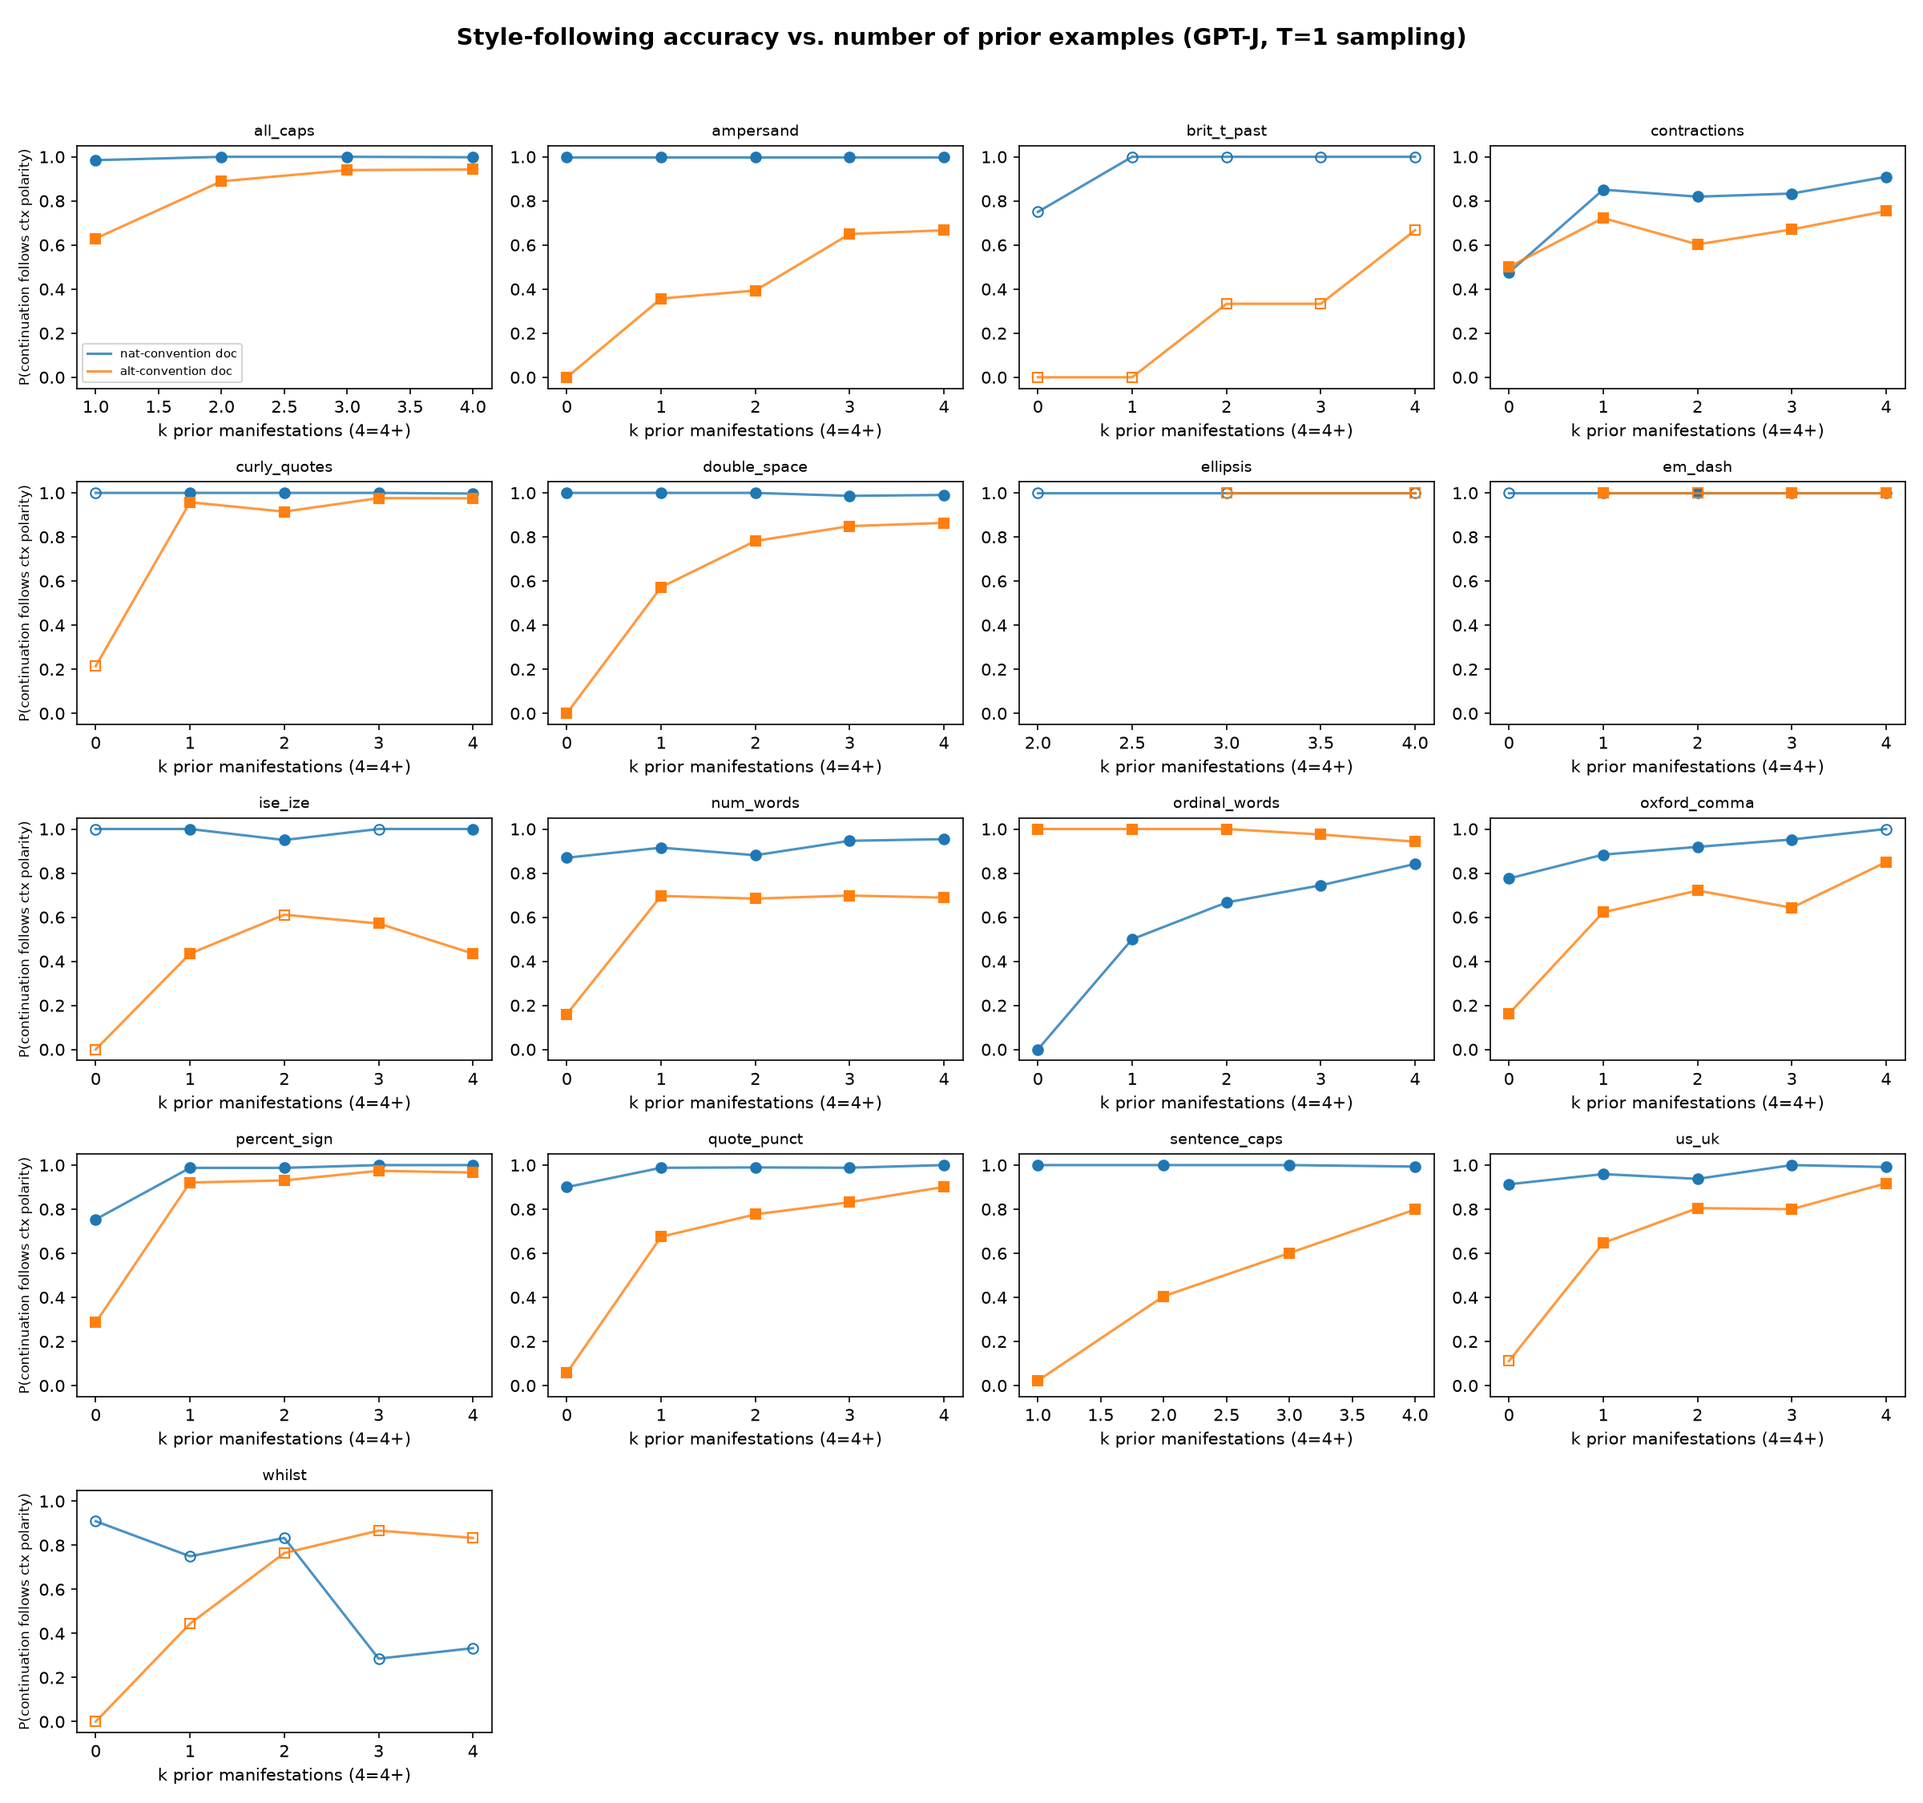
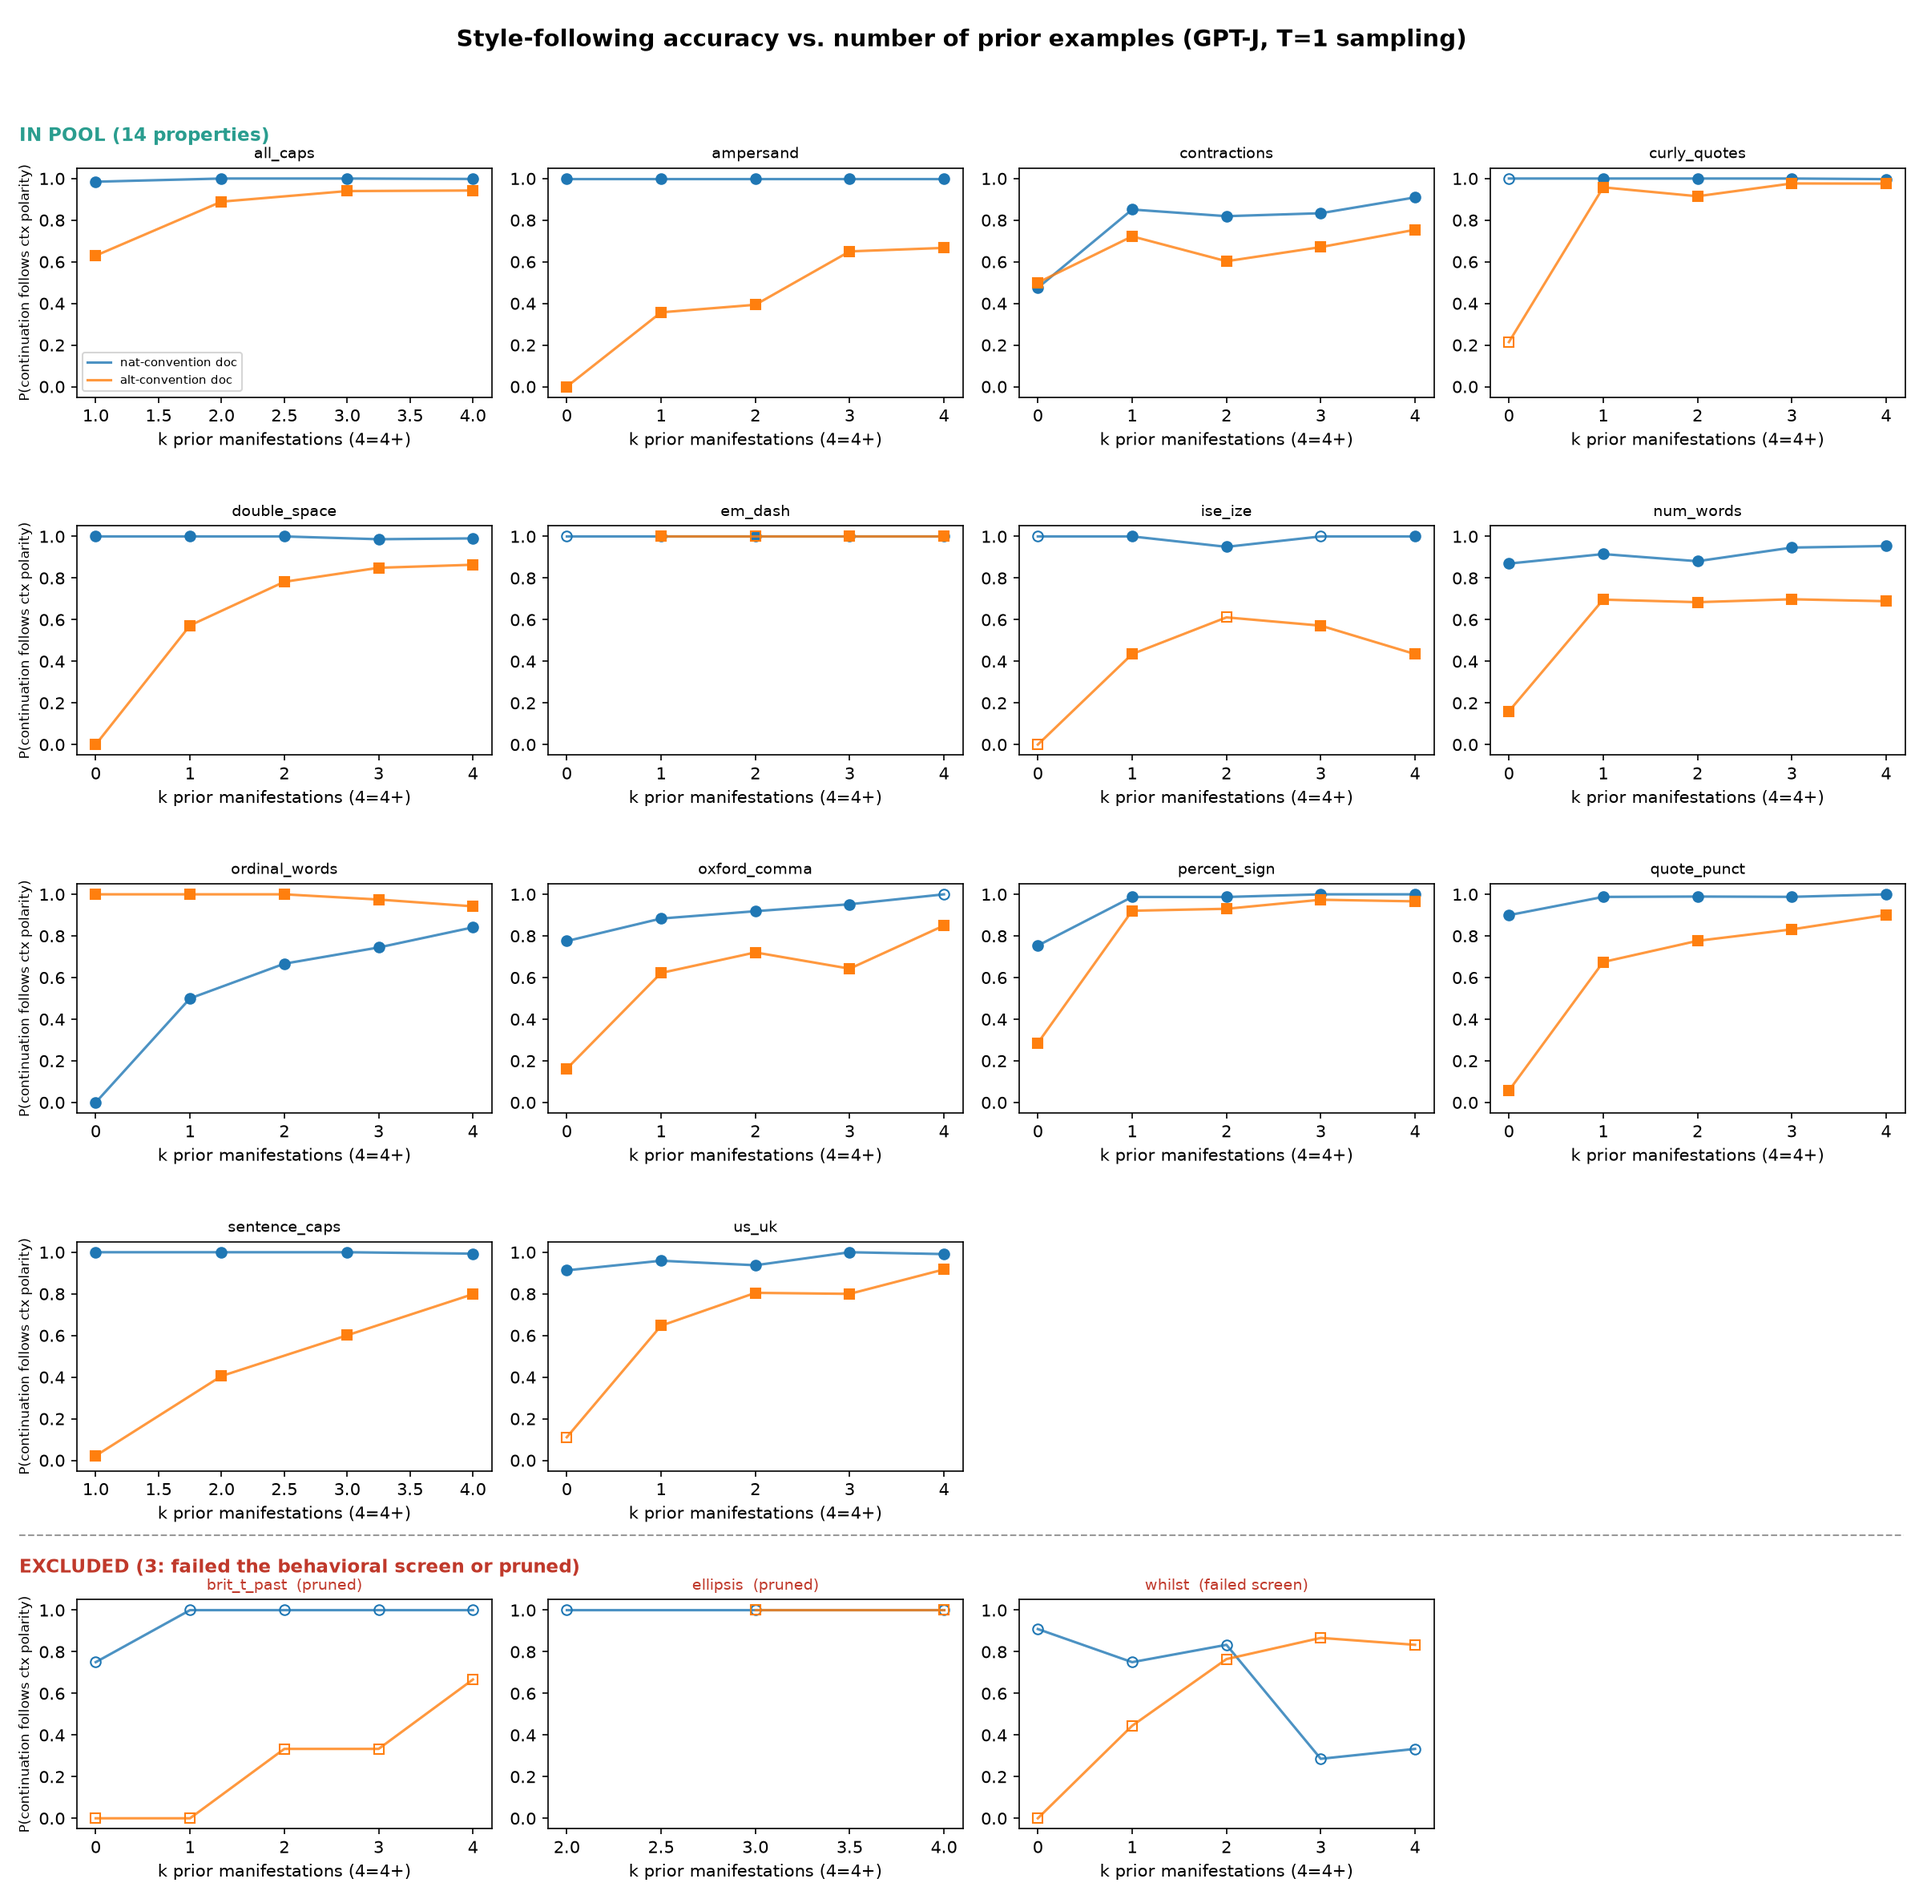
accuracy_by_k: sectioned layout — IN POOL block vs EXCLUDED block (failed screen / pruned), red-titled

diff --git a/src/sandbox/ext_styleprops/plot_prescreen.py b/src/sandbox/ext_styleprops/plot_prescreen.py
@@ -77,7 +77,21 @@ def main():
 
     fig1, ax1 = plt.subplots(nrow, ncol, figsize=(4 * ncol, 3 * nrow), squeeze=False)
     fig2, ax2 = plt.subplots(nrow, ncol, figsize=(4 * ncol, 3 * nrow), squeeze=False)
-    fig3, ax3 = plt.subplots(nrow, ncol, figsize=(4 * ncol, 3 * nrow), squeeze=False)
+    # accuracy figure: pool properties in the top block, excluded (failed / pruned) in
+    # a separate bottom block. Pool membership from the durable pool file (previous run).
+    pool_path = REPO_ROOT / "task_splits" / "style_properties_pool.json"
+    pool_pass = set(json.load(open(pool_path))["pass"]) if pool_path.exists() else \
+        {p["property"] for p in props}
+    names_all = [p["property"] for p in props]
+    in_pool = [nm for nm in names_all if nm in pool_pass]
+    excluded = [nm for nm in names_all if nm not in pool_pass]
+    nrow_pool = int(np.ceil(len(in_pool) / ncol))
+    nrow_excl = int(np.ceil(len(excluded) / ncol)) if excluded else 0
+    pos3 = {nm: (i // ncol, i % ncol) for i, nm in enumerate(in_pool)}
+    pos3.update({nm: (nrow_pool + j // ncol, j % ncol) for j, nm in enumerate(excluded)})
+    nrow3 = nrow_pool + nrow_excl
+    fig3, ax3 = plt.subplots(nrow3, ncol, figsize=(4 * ncol, 3 * nrow3 + 0.8),
+                             squeeze=False)
     rows = []
     npz = {}
     for pi, pdata in enumerate(props):
@@ -112,7 +126,7 @@ def main():
 
         # accuracy analog: adherence to the context's own polarity, by k.
         # cells with <20 scorable samples get open markers (thin-data flag).
-        a = ax3[pi // ncol][pi % ncol]
+        a = ax3[pos3[name][0]][pos3[name][1]]
         for pol, mk, col, lab in (("nat", "o", "#1f77b4", "nat-convention doc"),
                                   ("alt", "s", "#ff7f0e", "alt-convention doc")):
             ys, ms = [], []
@@ -130,7 +144,7 @@ def main():
         a.set_title(name, fontsize=9)
         a.set_ylim(-0.05, 1.05)
         a.set_xlabel("k prior manifestations (4=4+)")
-        if pi % ncol == 0:
+        if pos3[name][1] == 0:
             a.set_ylabel("P(continuation follows ctx polarity)", fontsize=8)
         if pi == 0:
             a.legend(fontsize=7)
@@ -177,7 +191,15 @@ def main():
     for k in range(len(props), nrow * ncol):
         ax1[k // ncol][k % ncol].axis("off")
         ax2[k // ncol][k % ncol].axis("off")
-        ax3[k // ncol][k % ncol].axis("off")
+    used3 = set(pos3.values())
+    for r_ in range(nrow3):
+        for c_ in range(ncol):
+            if (r_, c_) not in used3:
+                ax3[r_][c_].axis("off")
+    for nm in excluded:
+        a = ax3[pos3[nm][0]][pos3[nm][1]]
+        why = "pruned" if nm in PRUNED else "failed screen"
+        a.set_title(f"{nm}  ({why})", fontsize=9, color="#c0392b")
     fig3.suptitle("Style-following accuracy vs. number of prior examples "
                   "(GPT-J, T=1 sampling)", fontsize=14, fontweight="bold", y=0.985)
     fig1.suptitle("Sampled adherence at decision points: fraction of T=1 continuations "
@@ -186,10 +208,24 @@ def main():
     fig2.suptitle("Context separation s = P(nat | nat ctx) − P(nat | alt ctx) at decision "
                   "points, by token distance since the property last manifested", fontsize=11)
     for f_, name_, top in ((fig1, "adherence_by_k.png", 0.96),
-                           (fig2, "separation_by_dist.png", 0.96),
-                           (fig3, "accuracy_by_k.png", 0.965)):
+                           (fig2, "separation_by_dist.png", 0.96)):
         f_.tight_layout(rect=(0, 0, 1, top))
         f_.savefig(OUT_DIR / name_, dpi=150)
+    # accuracy figure: section headers + separator between pool and excluded blocks
+    fig3.tight_layout(rect=(0, 0, 1, 0.955), h_pad=3.2)
+    top_pool = ax3[0][0].get_position().y1
+    fig3.text(0.01, top_pool + 0.012, f"IN POOL ({len(in_pool)} properties)",
+              fontsize=11, fontweight="bold", color="#2a9d8f", va="bottom")
+    if excluded:
+        top_excl = ax3[nrow_pool][0].get_position().y1
+        bot_pool = ax3[nrow_pool - 1][0].get_position().y0
+        y_sep = top_excl + 0.034   # just above the EXCLUDED header, clear of pool x-labels
+        fig3.add_artist(plt.Line2D([0.01, 0.99], [y_sep, y_sep], color="#999", lw=1,
+                                   ls="--", transform=fig3.transFigure))
+        fig3.text(0.01, top_excl + 0.012, f"EXCLUDED ({len(excluded)}: failed the "
+                  "behavioral screen or pruned)", fontsize=11, fontweight="bold",
+                  color="#c0392b", va="bottom")
+    fig3.savefig(OUT_DIR / "accuracy_by_k.png", dpi=150)
     np.savez(OUT_DIR / "prescreen_records.npz", **npz)
 
     import csv
